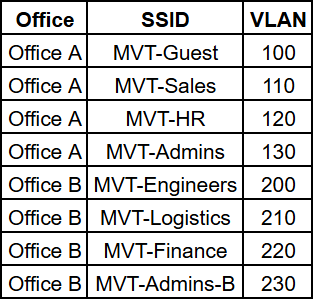
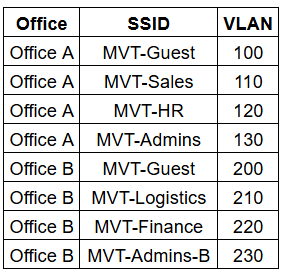
fix

diff --git a/_posts/2026-09-29-enterprise-network-project.md b/_posts/2026-09-29-enterprise-network-project.md
@@ -98,11 +98,11 @@ EtherChannels are also configured as trunk links. Unlike the Access-Distribution
 
 ### IP Addresses
 
-You can see the number of employees and devices in the company below. The “IPs Required” column doesn’t match the number of employees or devices. I applied a growth factor of x4 to each department, but not to every row. Phones stay close to the employee count, since each employee just gets one desk phone.  Guest Wi-Fi is an assumption for visitors and Management is sized from the number of network devices.
+You can see the number of employees and devices in the company below. The “IPs Required” column doesn’t match the number of employees or devices. I applied a growth factor of x4 to each department, but not to every row. Phones stay close to the employee count, since each employee just gets one desk phone.  Guest Wi-Fi in both offices is sized as assumption for visitors, and Management is sized from the number of network devices.
 
 <img src="/assets/images/enp/13_office_ips.png" alt="office_ips" class="post-img post-img--left" style="--w: 650px;">
 
-<img src="/assets/images/enp/14_servers_ips.png" alt="servers_ips" class="post-img post-img--left" style="--w: 375px;">
+<img src="/assets/images/enp/14_servers_ips.png" alt="servers_ips" class="post-img post-img--left" style="--w: 425px;">
 
 I used the private IP address block 172.16.0.0/12, as defined in RFC 1918. Before explaining IP addressing, I would like to include a quick refresher on the subnetting from my notes, since the same reasoning applied across the whole network.
 
@@ -257,20 +257,17 @@ The Distribution switches relay client requests to the servers using `ip helper-
 After completing the configuration, I tested DHCP on PC2 (HR) and it worked correctly:
 
 <img src="/assets/images/enp/31_dhcp_output.png" alt="dhcp_output" class="post-img post-img--left" style="--w: 750px;">
+DHCP_A and DHCP_B have no redundancy here. If DHCP_A fails, new clients in Office A get no address. In production, two servers would run DHCP failover and both would serve every pool. Packet Tracer's DHCP server has no failover, so each office has a single server.
 
 ### DNS
+All DHCP pools assign DNS_1 (172.16.8.4), so all clients on the network send their DNS queries to DNS_1. DNS_1 resolves www.company.com and mail.company.com to the private IP addresses of the DMZ servers, while DNS_EXT in the DMZ resolves them to their public IP addresses (203.0.113.130 and 203.0.113.131) for outside users. This is referred to as split-brain DNS.
 
-DHCP assigns 172.16.8.4 as the DNS server on every pool so DNS_1 is the DNS server the entire network uses. It resolves www.company.com, the company's own website in the DMZ, as a plain A record, while google, youtube and mvtechblog are all delegated.
-
-This shows how DNS delegation works in a real enterprise network, where internal and external name resolution are handled by separate servers instead of one server holding every record. The delegation is set up on DNS_1 with an NS record for each domain pointing at dns2server, plus an A record for dns2server itself:
-
-<img src="/assets/images/enp/32_dns.png" alt="dns" class="post-img post-img--left" style="--w: 650px;">
-
-DNS_2 holds the actual record for that domain:
-
-<img src="/assets/images/enp/33_dns2.png" alt="dns2" class="post-img post-img--left" style="--w: 650px;">
-
-The PC only ever queries DNS_1. DNS_1 is the one that resolves the delegated name through DNS_2 and hands the result back. The client never talks to DNS_2 directly. The DMZ Web Server hosts a simple company page at www.company.com, which confirms that DNS, routing and the DMZ work together end to end.
+For other hosts, DNS_1 would normally use a forwarder, but Packet Tracer’s DNS server doesn’t support this feature. Therefore, DNS_1 uses NS entries for google, youtube and mvtechblog that point to PUBLIC_DNS, a server on the provider’s side that stands in for the internet’s DNS. To keep things simple, it runs on the same server as www.google.com.
+<img src="/assets/images/enp/32_dns1.png" alt="dns_output" class="post-img post-img--left" style="--w: 500px;">
+Actual delegation happens the other way round: PUBLIC_DNS delegates the company.com names to DNS_EXT (ns1.company.com, 203.0.113.132). Packet Tracer does exact matching of names, hence each name is delegated individually instead of delegating the whole zone.
+<img src="/assets/images/enp/33_publicdns.png" alt="dns_output" class="post-img post-img--left" style="--w: 500px;">
+<img src="/assets/images/enp/34_dns_ext.png" alt="dns_output" class="post-img post-img--left" style="--w: 500px;">
+In production, clients would have two internal DNS servers and guests would use a public DNS resolver. In this network, guests use DNS_1 too, but their ACL blocks everything else on the inside.
 
 Here is a test I ran with a simple copy of my own website.
 {% include video-loop.html src="/assets/images/enp/34_dns_video.mp4" class="video-loop--medium" %}
@@ -328,7 +325,7 @@ Firewalls don’t take part in the process. In the ASA of Packet Tracer, there i
 Each device until now had its own user account in the local storage. This is fine until you need to make changes like adding a new person or changing passwords, and then you need to edit twenty devices individually. The RADIUS moves the users to the central server and requests the devices to communicate with it. The central server is in VLAN 300 at 172.16.8.6. The devices have their IP addresses, shared secret and all user accounts stored in the central server instead of each individual device. The login list in each device asks the permission of the server first and uses the local user account only when it cannot reach the server. Otherwise, a problem with the server would result in locking out all devices simultaneously. 
 
 However, this backup plan is not a security weakness because it only applies to the server being unavailable, not for the server providing a rejected response to the authentication request. If RADIUS provides a rejected response, the device considers it as such and rejects the login attempt. The local account acts as the backup account here.
-
+The same RADIUS server is used to authenticate the employees on the corporate wireless local area networks that I configured in the Wireless configuration section. The two wireless controllers are configured as RADIUS clients with a different shared secret from the one that is used by the network devices. The RADIUS server in Packet Tracer has one user list for all the clients and so the Wi-Fi user can also connect to the switch. However, the VTY access list and physical console access prevent that from happening. In practice, there is a certain policy applied to each request; for instance, the NPS in Windows only allows the members of a certain AD group such as Network Admins access to the network devices.
 One note on the port number. 1645 is the old Cisco default, while the standard ports are 1812 and 1813. Packet Tracer's server listens on 1645, so that is what the clients use.
 
 <img src="/assets/images/enp/39_radius.png" alt="radius" class="post-img post-img--left" style="--w: 700px;">
@@ -362,7 +359,7 @@ The company has an IP block 203.0.113.0/24 and announces it to both providers. T
 Both Edge Routers carry the same DMZ translations, so the servers stay reachable when one of them is gone.
 
 <img src="/assets/images/enp/42_nat_translatios.png" alt="nat_translatinos" class="post-img post-img--left" style="--w: 650px;">
-
+In most networks of this size, the firewall connects to the providers directly and does the NAT itself, so translation happens on a stateful device. I placed Edge Routers in front of the firewalls to show eBGP multihoming, which is why NAT runs on the routers here.
 ### Multihoming and BGP
 
 Each Edge Router peers with its own provider over eBGP, and both advertise the company's block. On the outgoing path, the entire network will use EDGE_R1. The firewall default gateway routes will use EDGE_R1, with EDGE_R2 being secondary but with a higher administrative distance value. In case of a failure in EDGE_R1, the link will fail, and the firewall will switch over to EDGE_R2 automatically.
@@ -377,14 +374,16 @@ The firewall does not influence the process of choosing the best route. Packet T
 
 The two providers' routers have been connected, with an Internet core behind them. The network stops at the edge routers, so this side exists just to give the peering some place to be terminated.
 
-### E-mail
-The mail server is placed within the DMZ at IP address 172.16.12.3, which appears as 203.0.113.131 to the internet. It serves the domain name company.com using SMTP protocol for sending and POP3 protocol for incoming mail, and the accounts of users are located on the server.
+Owning a provider-independent /24 and running BGP with two providers is what larger organizations do. A company with fewer than a hundred people would more often use the addresses each provider assigns and let the firewall fail over between the two links. I built it this way to show how multihoming works.
 
-To connect to it, clients use the name. The name mail.company.com is delegated from DNS_1 to DNS_2 as any other external domain name is delegated, and DNS_2 stores the name. In the real-life scenario, the entire company.com zone should be delegated only once, and all the names below it would be delegated automatically. In Packet Tracer, each name is delegated individually since DNS server matches names exactly.
+### E-mail
+The mail server is placed within the DMZ at IP address 172.16.12.3, which appears as 203.0.113.131 to the internet. It serves the domain name company.com using SMTP protocol for sending and POP3 protocol for incoming mail, and the accounts of users are located on the server. Clients reach it by name. DNS_1 answers mail.company.com with the server's private address, and DNS_EXT answers outside users with the public one.
 
 I tested it between PC1 in Office A and PC5 in Office B. The ACLs block any direct connection between the two offices, but both can reach the DMZ, so they still exchange mail through the shared server. That is the intended shape. The offices are kept apart, and common services sit in between.
 
-From the internet, only SMTP and POP3 are opened to the mail server on the firewall. Both protocols send credentials and content in clear text here. In production they would run over TLS, which Packet Tracer's mail server does not support.
+From the internet, only SMTP and POP3 are opened to the mail server on the firewall. Both protocols send credentials and content in clear text here. In production they would run over TLS, which Packet Tracer's mail server does not support. 
+
+Hosting mailboxes on a DMZ server is rare today. A company of this size would use Microsoft 365 or Google Workspace. An on-premises Exchange server would sit on the inside network, with only a mail gateway in the DMZ.
 
 <img src="/assets/images/enp/43_email.png" alt="email" class="post-img post-img--left" style="--w: 700px;">
 
@@ -416,14 +415,15 @@ CME is a small branch product and it is not what a new deployment would use toda
 Distribution Switches filter traffic between VLANs as well as between the two offices. Firewalls handle traffic between the inside, DMZ, and the Internet. The rules follow the trust zones from Part 2. Each zone can only reach what its role needs.
 
 <img src="/assets/images/enp/47_acllist.png" alt="acllist" class="post-img post-img--left" style="--w: 375px;">
-Only Admins and Managers VLANs have access for management. Both offices' devices can be accessed through from Managers VLANs, including Edge Routers and firewalls. No other VLANs can initiate any management connection at all. 
+Only Admins and Managers VLANs have access for management. Both offices’ devices can be accessed through from Managers VLANs, including Edge Routers and firewalls. No other VLANs can initiate any management connection at all.
 
-PrinterA2 is available only for HR and Admins, PrinterB1 for Engineers and HR & Logistics, PrinterB2 for Accounting & Finance and Admins. This is enforced on the printer VLAN's own SVI, so the user VLANs can share a single access list. There's no need to mention DHCP in the table because each of the user access lists permits it first, so clients can always get an address.
+PrinterA2 is available only for HR and Admins, PrinterB1 for Logistics, and PrinterB2 for Accounting & Finance and Admins. This is enforced on the printer VLAN’s own SVI, so the user VLANs can share a single access list. In a Windows environment, users would print through a print server instead. Printer permissions are set by AD group, and only the print server is allowed into the printer VLAN. I show that approach in my Windows Server project. There’s no need to mention DHCP in the table because each of the user access lists permits it first, so clients can always get an address.
 
-The ACLs are stateless, so "replies only" means the return traffic of a connection that someone else started such as a user answering an admin's ping. These are also extended access lists, so they are applied inbound on the SVIs, right at the source of the traffic. The printer VLANs are the exception, where the list that decides who can reach the printer is applied outbound, towards the printer. They must be applied on all four Distribution switches as opposed to one per pair because HSRP allows either one of the two switches to become the gateway.
+Both guest VLANs, 100 in Office A and 200 in Office B, use the same GUEST_IN list. Guests get DHCP, DNS queries to DNS_1 and the company website. Everything else in 172.16.0.0/20 is denied, and the internet is open except for ICMP.
+
+The ACLs are stateless, so “replies only” means the return traffic of a connection that someone else started such as a user answering an admin’s ping. These are also extended access lists, so they are applied inbound on the SVIs, right at the source of the traffic. The printer VLANs are the exception, where the list that decides who can reach the printer is applied outbound, towards the printer. They must be applied on all four Distribution switches as opposed to one per pair because HSRP allows either one of the two switches to become the gateway.
 
 On the firewalls, the policy between the Internet, the DMZ and the inside is shown below.
-
 <img src="/assets/images/enp/48_firewall_acl.png" alt="firewall_acl" class="post-img post-img--left" style="--w: 400px;">
 
 As you can see above, the DMZ servers can only reach the Internet for what they actually need: DNS, sending mail, and updates over HTTP and HTTPS. The DMZ is untrusted in both directions, which is the whole point of having one. The Edge Routers sit outside the firewall, so the same management services had to be opened for them as well. Until this point they could not reach the NTP, syslog or RADIUS servers at all, which is what the RADIUS section referred to. Return traffic for connections started from the inside is allowed by the firewall's stateful inspection, so "Nothing" in the table only covers connections started from outside.
@@ -446,8 +446,8 @@ There is one issue that needs explanation. Printers and the wireless controllers
 Each office has a Wireless LAN Controller in its IDF and one lightweight access point per department. The controller holds the WLANs and pushes them to the APs, so every SSID is configured once per office instead of on each AP.
 
 <img src="/assets/images/enp/50_wireless_ssid.png" alt="wireless_ssid" class="post-img post-img--left" style="--w: 250px; --mobile-w: 150px;">
-
-All WLANs use WPA2-PSK with AES. The guest SSID has its own passphrase, so visitors never learn the one used by staff.
+The staff WLANs use WPA2-Enterprise (802.1X). Users authenticate using their own credentials that get verified by the RADIUS server at 172.16.8.6, so just one account is needed for the user management. Every wireless device has its own account, just like every employee in production. Packet Tracer provides EAP-MD5 only, which cannot be used on real Wi-Fi. It generates no encryption keys and does not authenticate the server. In production, PEAP-MSCHAPv2 or EAP-TLS with RADIUS and Active Directory authentication would be used.
+MVT-Guest SSID uses WPA2-PSK with AES encryption. It is advertised in both buildings under the same name and passphrase so that guests remain connected even when walking through them.
 
 The APs don't have a fixed address. Packet Tracer's lightweight AP only takes its address from DHCP, so each office has a pool in its Management VLAN, and that pool's WLC Address field tells the AP where its controller is. After that the AP registers with the controller on its own and downloads the WLANs.
 
@@ -457,7 +457,7 @@ In a campus that has its own controller, WLANs normally use central switching. T
 
 <img src="/assets/images/enp/52_aswa3_trunkinterfaces.png" alt="aswa3_trunkinterfaces" class="post-img post-img--left" style="--w: 650px;">
 
-Every AP broadcasts every SSID of its office. Packet Tracer ignores custom AP groups, so an SSID can't be tied to a single AP. This doesn't affect the design, because the SSID, not the AP, decides which VLAN a client ends up in. A guest phone that joins through the Sales AP still lands in VLAN 100.
+Every AP broadcasts every SSID of its office. Packet Tracer ignores custom AP groups, so an SSID can't be tied to a single AP. This doesn't affect the design, because the SSID, not the AP, decides which VLAN a client ends up in. A guest phone that joins through the Sales AP still lands in VLAN 100. In production, a site this size would use one controller (or an HA pair) for both buildings and fewer SSIDs: one corporate SSID where RADIUS assigns the VLAN from the user's AD group, plus the guest SSID. Packet Tracer's controller can't assign VLANs from RADIUS, so each department has its own SSID here.
 
 Which AP a client joins depends on distance, and that comes from the Physical view. The coverage range of every AP is 25 meters, a realistic cell size for an office, and each AP sits in its department's room, so clients join the AP of their own room. Once connected, every client leases an address from its department's pool, and the ACLs from Part 7 apply to wireless clients the same way they apply to wired ones.
 
@@ -507,3 +507,4 @@ The DMZ and the internal servers share a room but not a rack, so the separation 
 In this project, I designed and simulated a real enterprise network as far as Packet Tracer allowed me. I built each part the way it would be built in a real network and explained the reasoning behind every decision.
 
 At the start of the project, I didn’t expect Packet Tracer’s limitations to come up this often. Each time a feature didn’t work the way it would on real IOS, I had to find another way to reach the same result, which taught me the solutions I wouldn’t have looked for otherwise. At the same time, these limitations also restricted how far the design could go in Packet Tracer. That’s why I’m planning to build my future projects in GNS3. Even though building a project like this in GNS3 is more costly, it runs real device images, which will let me design a larger and more complex network.
+
